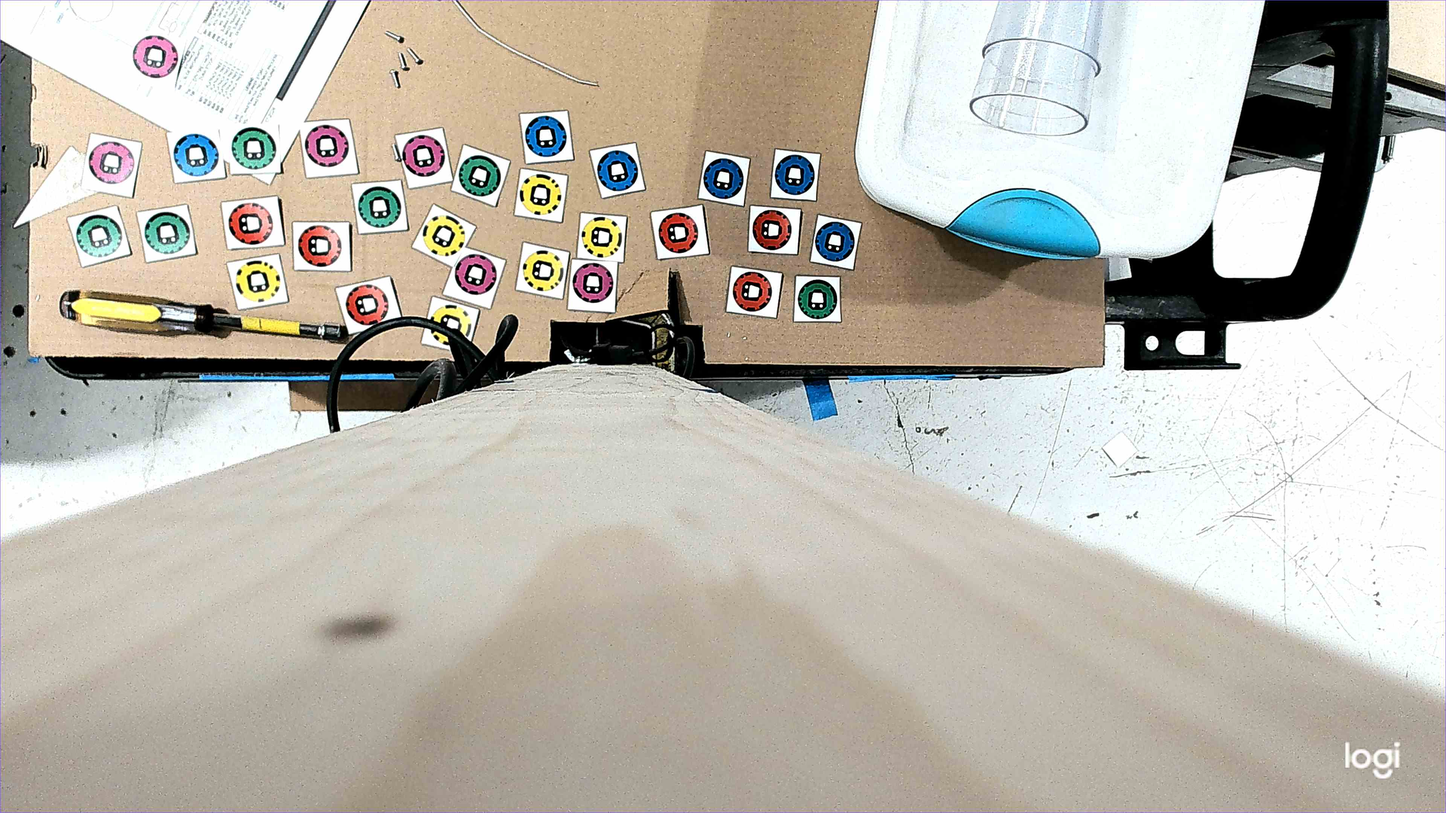
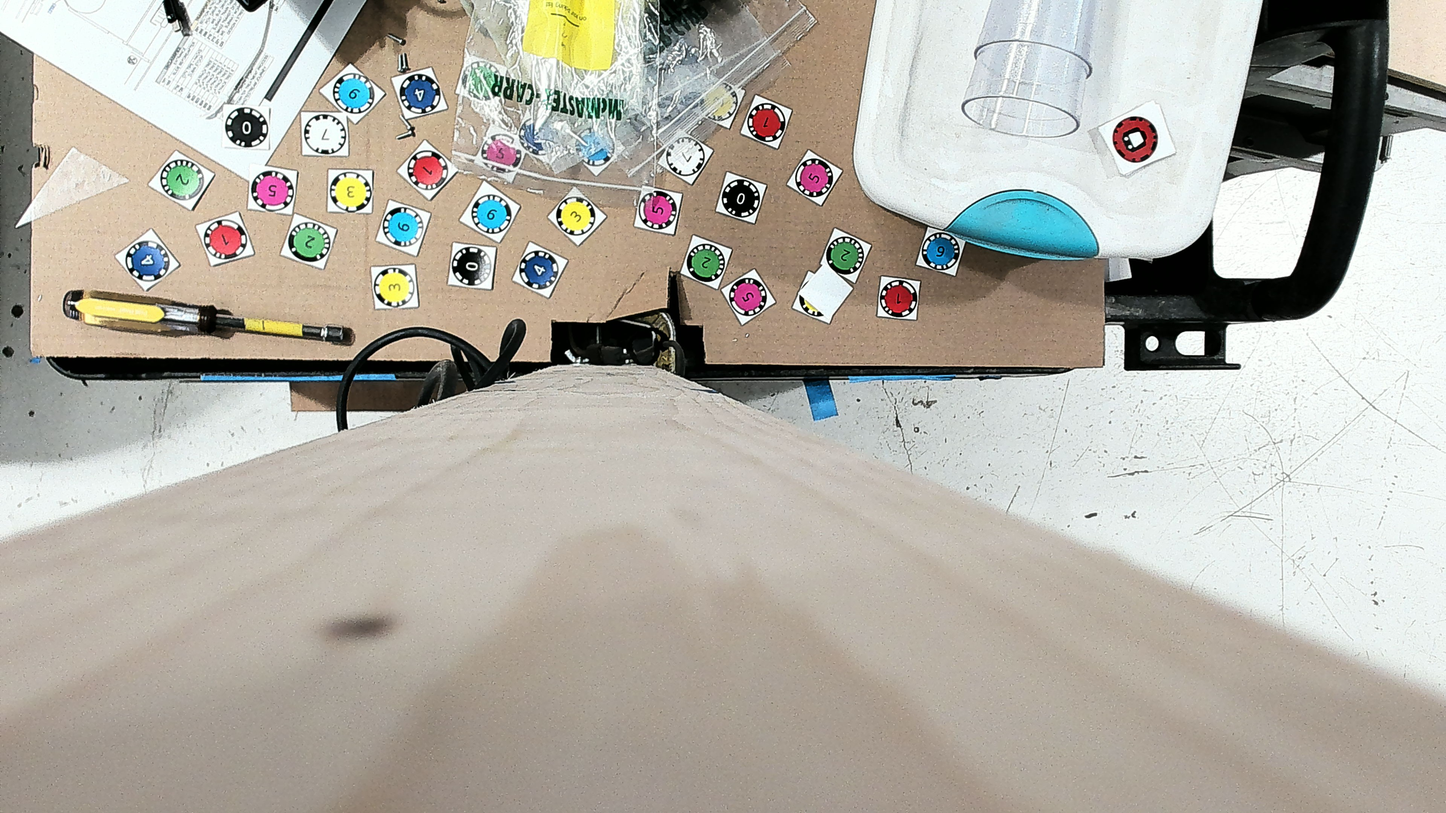
use camera feed

diff --git a/src/decode.py b/src/decode.py
@@ -2,12 +2,25 @@ import numpy as np
 import math
 import cv2 as cv
 import matplotlib.pyplot as pt
+import sys 
+
+
+
+
 
 WINDOW_TITLE = 'window'
 
-img = cv.imread('img.jpg')
+
+cam = cv.VideoCapture(2, cv.CAP_DSHOW)
+cam.set(cv.CAP_PROP_FRAME_WIDTH, 3840)
+cam.set(cv.CAP_PROP_FRAME_HEIGHT, 2160)
+
+ret, img = cam.read()
+cam.release()
 height, width = img.shape[0], img.shape[1]
-print(height, width)
+
+
+
 
 
 dictionary = {
@@ -74,6 +87,109 @@ def matchCode(x):
 
 
 
+def decode(hsv, p0, r, n=0):
+  tau = 2 * 3.141592
+  # hsv = cv.cvtColor(roi, cv.COLOR_BGR2HSV)
+  sampleAngles = [ x * tau / 43 for x in range(43) ]
+  samplePositions = list(map(lambda a : (round(r * math.cos(tau - a)), round(r * math.sin(tau - a))), sampleAngles))
+  sampleValues = list(map(lambda p : hsv[clamp(int(p0[1])+p[1], 0, hsv.shape[1]), clamp(int(p0[0])+p[0], 0, hsv.shape[0]), 2], samplePositions))
+  minVal = min(sampleValues)
+  maxVal = max(sampleValues)
+  m = (maxVal - minVal) / 2
+  m += minVal
+  binary = [ 1 if v > m else 0 for v in sampleValues ]
+  binStr = ''.join(str(b) for b in binary)
+  code = matchCode(int(binStr, 2))
+  if (code == -1 and n < 16):
+    # try again at a slightly smaller radius
+    return decode(hsv, p0, 0.99*r, n+1)
+  else:
+    return code
+    print(code, binStr, n)
+    pt.plot(np.array(sampleAngles), np.array(sampleValues))
+    pt.plot(np.array(sampleAngles), np.array([m] * len(sampleValues)))
+    pt.plot(np.array(sampleAngles), np.array([ 255 * b for b in binary ]))
+    pt.show()
+
+
+
+
+class HoughParams:
+  def __init__(self):
+    self.minDist = 20
+    self.cannyHigh = 100
+    self.threshold = 24
+    self.minRadius = 23
+    self.maxRadius = 33
+
+params = HoughParams()
+def findCircles(img, params, scale=2):
+  print('copying...')
+  dup = img[::scale, ::scale]
+  drawImg = dup.copy()
+  print('converting...')
+  grayImg = cv.cvtColor(dup, cv.COLOR_BGR2GRAY)
+  print('blurring...')
+  grayImg = cv.medianBlur(grayImg, 5)
+  print('detecting...')
+  circles = cv.HoughCircles(
+    grayImg, cv.HOUGH_GRADIENT, 1, 
+    params.minDist, param1=params.cannyHigh, param2=params.threshold, 
+    minRadius=params.minRadius, maxRadius=params.maxRadius)
+  circles = np.uint16(np.around(circles))
+  print('drawing...')
+  hsv = cv.cvtColor(dup, cv.COLOR_BGR2HSV)
+  for i in circles[0,:]:
+    cv.circle(drawImg, (i[0], i[1]), i[2], (0, 0, 255), 2)
+    code = decode(hsv, i, i[2])
+    cv.putText(drawImg, f"{code}", (i[0], i[1]), cv.FONT_HERSHEY_PLAIN, 1, (0, 0, 0), 4)
+    cv.putText(drawImg, f"{code}", (i[0], i[1]), cv.FONT_HERSHEY_PLAIN, 1, (255, 255, 255), 2)
+  cv.putText(drawImg, f"min dist: {params.minDist}", (10, 30), cv.FONT_HERSHEY_PLAIN, 1, (0, 255, 0))
+  cv.putText(drawImg, f"canny: {params.cannyHigh}", (10, 40), cv.FONT_HERSHEY_PLAIN, 1, (0, 255, 0))
+  cv.putText(drawImg, f"threshold: {params.threshold}", (10, 50), cv.FONT_HERSHEY_PLAIN, 1, (0, 255, 0))
+  cv.putText(drawImg, f"radius [min]: {params.minRadius}", (10, 60), cv.FONT_HERSHEY_PLAIN, 1, (0, 255, 0))
+  cv.putText(drawImg, f"radius [max]: {params.maxRadius}", (10, 70), cv.FONT_HERSHEY_PLAIN, 1, (0, 255, 0))
+  print('showing...')
+  cv.imshow('detected circles', drawImg)
+  k = cv.waitKey(1)
+  if (k > 0):
+    k = chr(k)
+    match k:
+      case 'D':
+        params.minDist -= 1
+      case 'd':
+        params.minDist += 1
+      case 'C':
+        params.cannyHigh -= 1
+      case 'c':
+        params.cannyHigh += 1
+      case 'T':
+        params.threshold -= 1
+      case 't':
+        params.threshold += 1
+      case '{':
+        params.minRadius -= 1
+      case '[':
+        params.minRadius += 1
+      case '}':
+        params.maxRadius -= 1
+      case ']':
+        params.maxRadius += 1
+      case _:
+        return None
+    findCircles(img, params, scale)
+
+
+
+import timeit
+#print(timeit.timeit("findCircles(img)"), globals=locals())
+while True:
+  findCircles(img, params, 4)
+sys.exit(0)
+
+
+
+
 x = 1500
 def setX(v):
   global x
@@ -86,29 +202,6 @@ r = 500
 def setR(v):
   global r
   r = v
-
-def decode(roi, r, n=0):
-  tau = 2 * 3.141592
-  hsv = cv.cvtColor(roi, cv.COLOR_BGR2HSV)
-  sampleAngles = [ x * tau / 43 for x in range(43) ]
-  samplePositions = list(map(lambda a : (round(r * math.cos(tau - a)) + 256, round(r * math.sin(tau - a)) + 256), sampleAngles))
-  sampleValues = list(map(lambda p : hsv[p[1], p[0], 2], samplePositions))
-  minVal = min(sampleValues)
-  maxVal = max(sampleValues)
-  m = (maxVal - minVal) / 2
-  m += minVal
-  binary = [ 1 if v > m else 0 for v in sampleValues ]
-  binStr = ''.join(str(b) for b in binary)
-  code = matchCode(int(binStr, 2))
-  if (code == -1 and n < 16):
-    # try again at a slightly smaller radius
-    decode(roi, 0.99*r, n+1)
-  else:
-    print(code, binStr, n)
-    pt.plot(np.array(sampleAngles), np.array(sampleValues))
-    pt.plot(np.array(sampleAngles), np.array([m] * len(sampleValues)))
-    pt.plot(np.array(sampleAngles), np.array([ 255 * b for b in binary ]))
-    pt.show()
 
 
 def render():
@@ -148,8 +241,10 @@ def render():
   elif k == '>':
     r += 10
   elif k == ' ':
-    decode(roi, r)
+    decode(hsv, r)
     
 
-while 1:
-  render()
+if __name__ == '__main__':
+    import timeit
+    while 1:
+        print(timeit.timeit("render()", globals=locals()))
